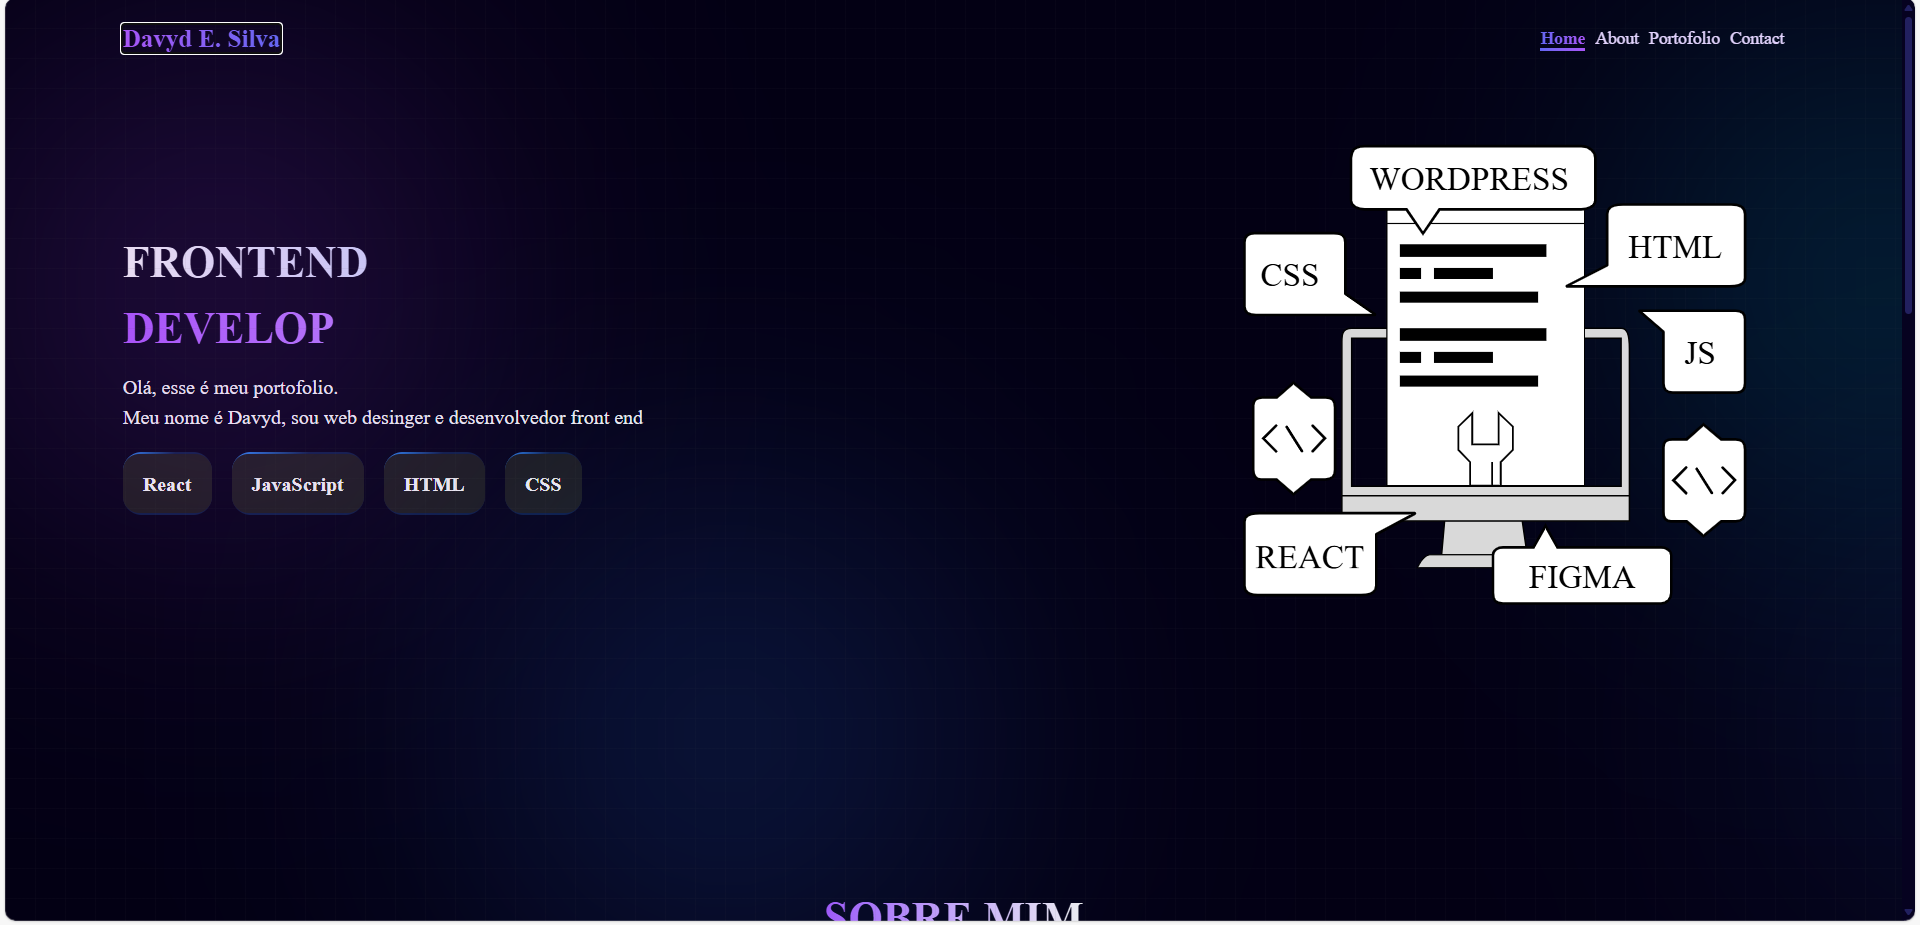
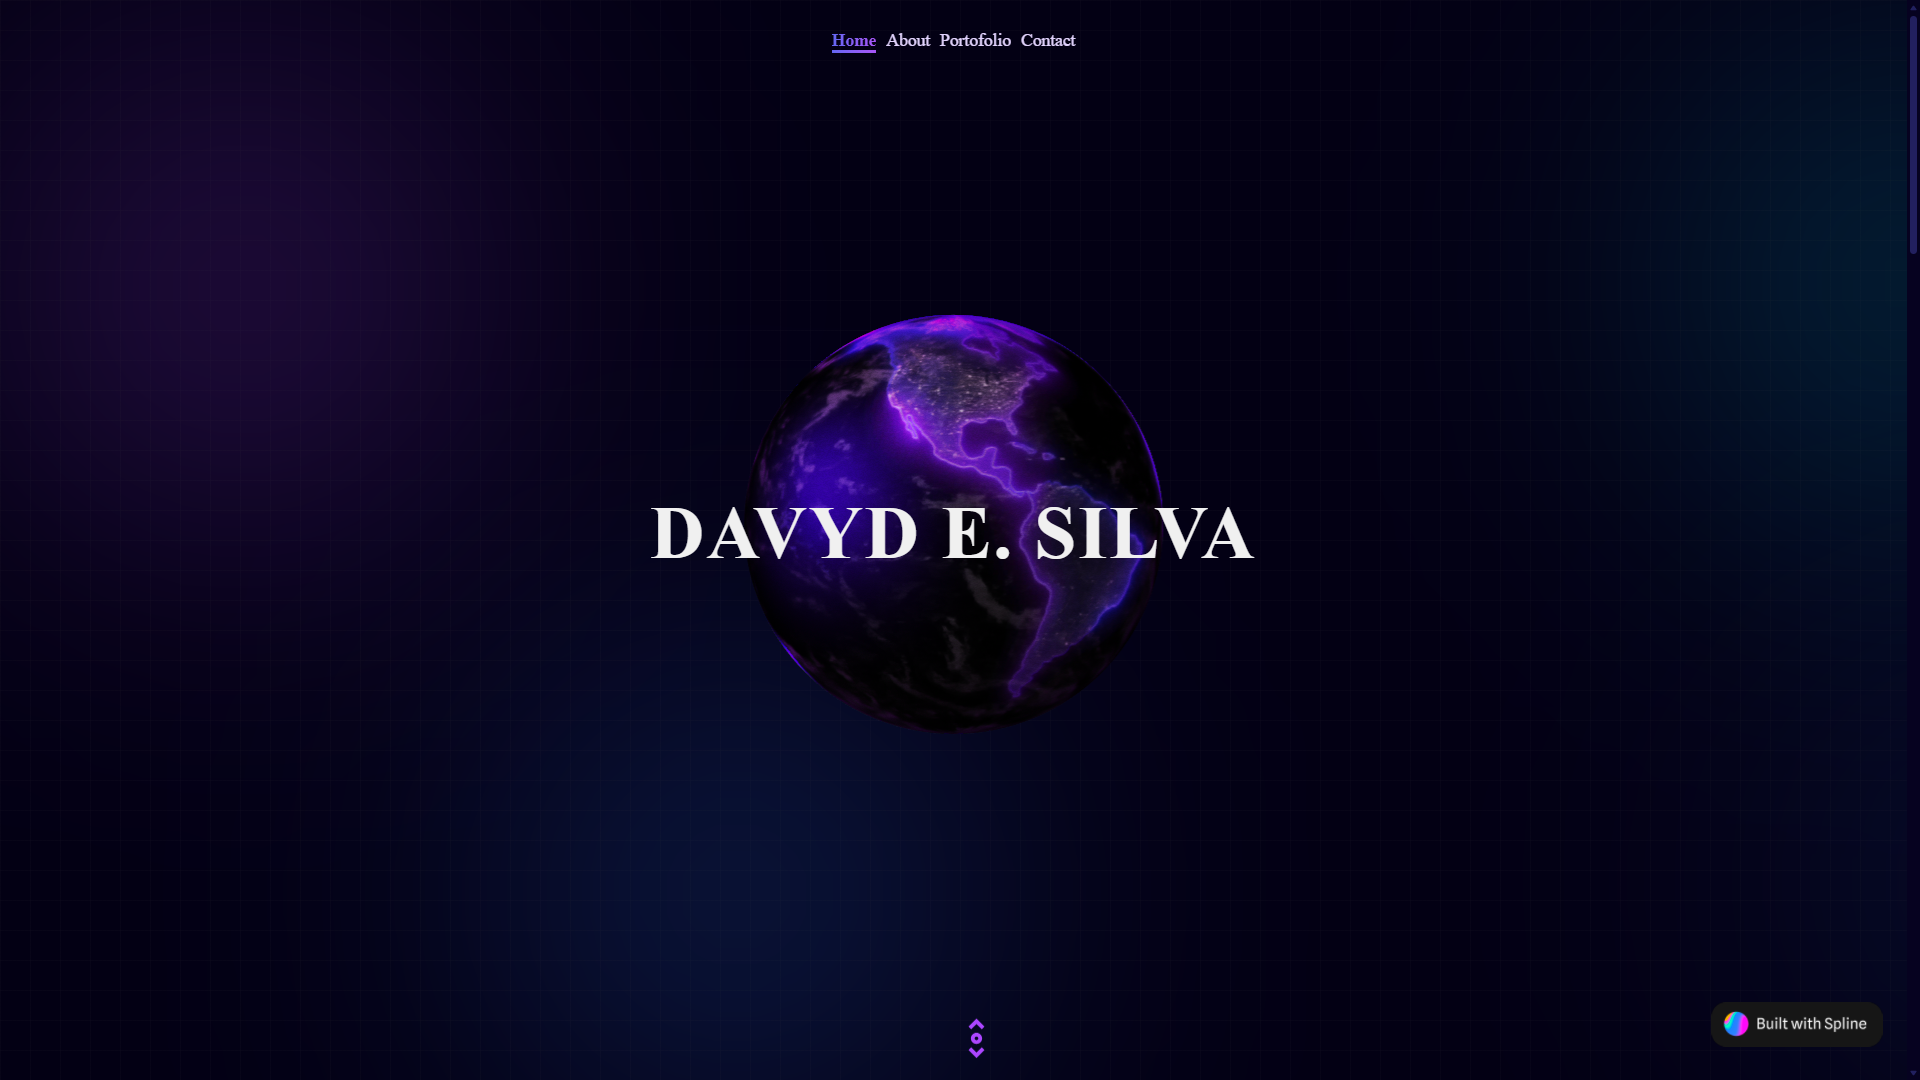
.
atualizações e manutenção do portifolio

diff --git a/src/componentes/Header.jsx b/src/componentes/Header.jsx
@@ -2,13 +2,13 @@ import React, { useState, useEffect } from "react";
 import { Menu, X } from "lucide-react";
 
 
-export default function Header () {
+export default function Header() {
     const [isOpen, setIsOpen] = useState(false);
     const [scrolled, setScrolled] = useState(false);
     const [activeSection, setActiveSection] = useState("Home");
 
     const navItems = [
-        { href: "#Home", label: "Home" }, 
+        { href: "#Home", label: "Home" },
         { href: "#About", label: "About" },
         { href: "#Portofolio", label: "Portofolio" },
         { href: "#Contact", label: "Contact" },
@@ -71,25 +71,14 @@ export default function Header () {
     return (
         <nav
             className={`fixed w-full top-0 z-50 transition-all duration-500 ${isOpen
-                    ? "bg-[#030014] opacity-100"
-                    : scrolled
-                        ? "bg-[#030014]/50 backdrop-blur-xl"
-                        : "bg-transparent"
+                ? "bg-[#030014] opacity-100"
+                : scrolled
+                    ? "bg-[#030014]/50 backdrop-blur-xl"
+                    : "bg-transparent"
                 }`}
         >
             <div className="mx-auto px-4 sm:px-6 lg:px-[10%] w-full flex justify-center">
-                <div className="flex items-center justify-between h-16 w-[87vw]">
-                    {/* Logo */}
-                    <div className="flex-shrink-0">
-                        <a
-                            href="#Home"
-                            onClick={(e) => scrollToSection(e, "#Home")}
-                            className="text-xl font-bold bg-gradient-to-r from-[#a855f7] to-[#6366f1] bg-clip-text text-transparent"
-                        >
-                            Davyd E. Silva
-                        </a>
-                    </div>
-
+                <div className="flex items-center justify-center h-16 w-[87vw]">
                     {/* Desktop Navigation */}
                     <div className="hidden md:block">
                         <div className="ml-8 flex items-center space-x-8 gap-2">
@@ -102,16 +91,16 @@ export default function Header () {
                                 >
                                     <span
                                         className={`relative z-10 transition-colors duration-300 ${activeSection === item.href.substring(1)
-                                                ? "bg-gradient-to-r from-[#6366f1] to-[#a855f7] bg-clip-text text-transparent font-semibold"
-                                                : "text-[#e2d3fd] group-hover:text-white"
+                                            ? "bg-gradient-to-r from-[#6366f1] to-[#a855f7] bg-clip-text text-transparent font-semibold"
+                                            : "text-[#e2d3fd] group-hover:text-white"
                                             }`}
                                     >
                                         {item.label}
                                     </span>
                                     <span
                                         className={`absolute bottom-0 left-0 w-full h-0.5 bg-gradient-to-r from-[#6366f1] to-[#a855f7] transform origin-left transition-transform duration-300 ${activeSection === item.href.substring(1)
-                                                ? "scale-x-100"
-                                                : "scale-x-0 group-hover:scale-x-100"
+                                            ? "scale-x-100"
+                                            : "scale-x-0 group-hover:scale-x-100"
                                             }`}
                                     />
                                 </a>
@@ -139,8 +128,8 @@ export default function Header () {
             {/* Mobile Menu Overlay */}
             <div
                 className={`md:hidden h-2/5 fixed inset-0 bg-[#030014] transition-all duration-300 ease-in-out ${isOpen
-                        ? "opacity-100 translate-y-0"
-                        : "opacity-0 translate-y-[-100%] pointer-events-none"
+                    ? "opacity-100 translate-y-0"
+                    : "opacity-0 translate-y-[-100%] pointer-events-none"
                     }`}
                 style={{ top: "64px" }}
             >
@@ -152,8 +141,8 @@ export default function Header () {
                                 href={item.href}
                                 onClick={(e) => scrollToSection(e, item.href)}
                                 className={`block px-4 py-3 text-lg font-medium transition-all duration-300 ease ${activeSection === item.href.substring(1)
-                                        ? "bg-gradient-to-r from-[#6366f1] to-[#a855f7] bg-clip-text text-transparent font-semibold"
-                                        : "text-[#e2d3fd] hover:text-white"
+                                    ? "bg-gradient-to-r from-[#6366f1] to-[#a855f7] bg-clip-text text-transparent font-semibold"
+                                    : "text-[#e2d3fd] hover:text-white"
                                     }`}
                                 style={{
                                     transitionDelay: `${index * 100}ms`,

diff --git a/src/sections/Main-home.jsx b/src/sections/Main-home.jsx
@@ -1,39 +1,22 @@
-import main from '/svg/main.svg'
-import Button from '../componentes/Button.jsx'
+import Spline from '../componentes/SplineScene';
+import {CgScrollV} from "react-icons/cg"
 import { motion } from "motion/react"
 
 export default function Main() {
     return (
-        <main className="flex w-full min-h-screen justify-center items-center z-10" id='Home'>
-            <motion.div className="w-[87vw] h-auto flex flex-row max-[800px]:flex-col justify-between items-center"
-                initial={{ opacity: 0, y: 40 }}
-                whileInView={{ opacity: 1, y: 0 }}
-                transition={{ duration: 0.6 }}
-                viewport={{ once: true, amount: 0.3 }}>
-                    
-            <div className="flex-1 gap-2">
-                <h1 className="flex flex-col">
-                    <span className="text-[35px] max-xl:text-xl font-bold bg-gradient-to-r from-[#f0f0f0] to-[#6366f1] bg-clip-text text-transparent">FRONTEND</span>
-                    <span className="text-[35px] max-xl:text-xl font-bold bg-gradient-to-r from-[#a855f7] to-[#f0f0f0] bg-clip-text text-transparent">DEVELOP</span>
-                </h1>
-                <p className='margin-top-2 text-[16px] max-md:text-[14px]'>
-                    Transformando código em experiências visuais. Sou um desenvolvedor Front-end apaixonado por construir interfaces que conectam pessoas e marcas.
-                </p>
+        <section className="relative w-full min-h-screen justify-center items-center overflow-hidden" id='Home'>
+            <Spline/> 
 
-                <div className=' flex items-center margin-top-3'>
-                    <div className='flex gap-4 flex-wrap text-[#f0f0f0]'>
-                        <Button text={"React"} />
-                        <Button text={"JavaScript"} />
-                        <Button text={"HTML"} />
-                        <Button text={"CSS"} />
-                    </div>
-                </div>
+            <div className='relative z-10 flex min-h-screen items-center justify-center'>
+                <h1 className='font-bold text-4xl sm:text-5xl lg:text-6xl text-[#F0F0F0] tracking-wide'>DAVYD E. SILVA</h1>
             </div>
-            <div className="flex-1 z-10 main-svg">
-                <img className='max-[800px]:max-w-[400px] max-[800px]:w-full max-[800px]:h-auto max-[800px]:mx-auto' src={main} alt="computador e icones flutuando" />
+
+            <div className='absolute bottom-0 left-[50%] animate-bounce'>
+                <h3 className='text-purple-500 text-4xl'>
+                    <CgScrollV/>
+                </h3>
             </div>
-        </motion.div>
-        </main >
+        </section >
 
     );
 }

diff --git a/src/sections/Portifolio.jsx b/src/sections/Portifolio.jsx
@@ -1,5 +1,5 @@
 import projeto1 from '/img/projeto-nubank.png'
-import projeto2 from '/img/cardapio.png'
+import projeto2 from '../../public/img/pagina-dk.png'
 import spiderpng from '/img/spider.png'
 import projetoPortifolio from '/img/portifolio.png'
 import landingPage from '/img/webPage.jpeg'
@@ -16,10 +16,10 @@ export default function Portifolio() {
             link: "https://web-site-nubank.vercel.app/"
         },
         {
-            title: "Cardápio Digital",
-            description: "Aplicação de cardápio digital desenvolvida com React, focada em praticidade e gerenciamento simplificado para delivery. O sistema utiliza Google Sheets como banco de dados, permitindo que o proprietário adicione novos produtos e altere preços em tempo real de forma intuitiva, sem necessidade de editar código.",
+            title: "Landing Page B2B",
+            description: "Uma landing page de alta conversão focada no mercado de atacado. Desenvolvida com React e Tailwind CSS, a interface utiliza um design moderno e minimalista para destacar os produtos, transmitir credibilidade logística e captar leads qualificados de lojistas diretamente para o WhatsApp.",
             image: projeto2,
-            link: "https://esfistreet.vercel.app/"
+            link: "https://lojista.dkconfeccoes.com.br"
         },
         {
             title: "Home Page Spider-Man",
@@ -68,7 +68,7 @@ export default function Portifolio() {
                 whileInView={{ opacity: 1, y: 0 }}
                 transition={{ duration: 0.6 }}
                 viewport={{ once: true, amount: 0.3 }}>
-                <h1 className="text-[35px] max-xl:text-xl font-bold bg-gradient-to-r from-[#a855f7] to-[#f0f0f0] bg-clip-text text-transparent mb-2">Portfolio</h1>
+                <h1 className="font-bold text-3xl sm:text-4xl lg:text-5xl text-[#F0F0F0] tracking-wide mb-2">Portfolio</h1>
                 <p className="text-[16px] max-[800px]:text-[14px] text-gray-300">
                     Explore meus projetos e criações desenvolvidos com tecnologias modernas.
                 </p>

diff --git a/src/sections/SobreMim.jsx b/src/sections/SobreMim.jsx
@@ -21,7 +21,7 @@ export default function Sobre() {
 
     return (
         <div className="flex w-full min-h-screen justify-center items-center z-10 flex-col mt-6" id='About'>
-            <motion.h1 className="text-[35px] max-xl:text-xl font-bold bg-gradient-to-r from-[#a855f7] to-[#f0f0f0] bg-clip-text text-transparent"
+            <motion.h1 className="font-bold text-3xl sm:text-4xl lg:text-5xl text-[#F0F0F0] tracking-wide"
                 initial={{ opacity: 0, y: -20 }}
                 whileInView={{ opacity: 1, y: 0 }}
                 transition={{ duration: 0.6 }}
@@ -35,8 +35,8 @@ export default function Sobre() {
                     transition={{ duration: 0.6 }}
                     viewport={{ once: true, amount: 0.3 }}>
                     <h1 className="flex flex-col">
-                        <span className="text-[35px] max-xl:text-xl font-bold bg-gradient-to-r from-[#f0f0f0] to-[#6366f1] bg-clip-text text-transparent">Davyd E.</span>
-                        <span className="text-[35px] max-xl:text-xl font-bold bg-gradient-to-r from-[#a855f7] to-[#f0f0f0] bg-clip-text text-transparent">Silva</span>
+                        <span className="text-[35px] max-xl:text-xl font-bold bg-gradient-to-r from-[#f0f0f0] to-[#6366f1] bg-clip-text text-transparent">Front-end</span>
+                        <span className="text-[35px] max-xl:text-xl font-bold bg-gradient-to-r from-[#a855f7] to-[#f0f0f0] bg-clip-text text-transparent">Web desing</span>
                     </h1>
                     <p className='margin-top-2 text-[16px] max-md:text-[14px] max-w-[75%] max-[800px]:max-w-[100%]'>
                         Desenvolvedor Front-End com formação em Análise e Desenvolvimento de Sistemas e foco em Web Design e UX Design. Apaixonado por criar experiências digitais modernas, busco unir design, animações e performance para desenvolver interfaces intuitivas, criativas e visualmente impactantes.

diff --git a/index.html b/index.html
@@ -1,13 +1,17 @@
 <!doctype html>
 <html lang="pt-br">
-  <head>
-    <meta charset="UTF-8" />
-    <link rel="icon" type="image/svg+xml" href="/vite.svg" />
-    <meta name="viewport" content="width=device-width, initial-scale=1.0" />
-    <title>portifolio</title>
-  </head>
-  <body>
-    <div id="root"></div>
-    <script type="module" src="/src/main.jsx"></script>
-  </body>
+
+<head>
+  <meta charset="UTF-8" />
+  <link rel="icon" type="image/svg+xml" href="/vite.svg" />
+  <meta name="viewport" content="width=device-width, initial-scale=1.0" />
+  <title>portifolio</title>
+  
+</head>
+
+<body>
+  <div id="root"></div>
+  <script type="module" src="/src/main.jsx"></script>
+</body>
+
 </html>

diff --git a/src/App.css b/src/App.css
@@ -1,5 +1,6 @@
 @import "tailwindcss";
 
+
 * {
 	margin: 0;
 	padding: 0;
@@ -188,36 +189,11 @@ p {
 
 
 
-/*animação main*/
-
-.js, .cod2, .react{
-	animation: svg 5s ease 1s infinite alternate;
-}
-.wordpress, .figma, .html{
-	animation: svg 5s ease 3s infinite alternate;
-}
-.css, .cod{
-	animation: svg 5s ease 2s infinite alternate;
-}
-
-@keyframes svg {
-	0%{
-		transform: translate3d(0, 0, 0);
-	}
-	100%{
-		transform: translate3d(0, 40px, 0);
-	}
-}
-
-
 
 @media (max-width: 800px){
 	.responsive{
 		flex-direction: column;
 		gap: 24px;
-	}
-	.main-svg{
-		margin-top: 40px;
 	}
 }
 @media (min-width: 1920px){

diff --git a/src/sections/Contato.jsx b/src/sections/Contato.jsx
@@ -35,7 +35,7 @@ const Contato = () => {
             </motion.div>
 
             <div className="w-[87vw] h-auto flex flex-row  items-center mt-6 max-[800px]:flex-col max-[800px]:gap-4 ">
-                <motion.div className=" flex flex-1 justify-center items-center"
+                <motion.div className=" flex flex-1 justify-center items-center z-10"
                     initial={{ opacity: 0, x: -40 }}
                     whileInView={{ opacity: 1, x: 0 }}
                     transition={{ duration: 0.7 }}

diff --git a/src/componentes/Form.jsx b/src/componentes/Form.jsx
@@ -45,7 +45,7 @@ const Form = () => {
     return (
         <StyledWrapper>
             <div className="form-container z-10">
-                <form className="form " onSubmit={handleSubmit}>
+                <form className="form z-10" onSubmit={handleSubmit}>
                     <div className="form-group">
                         <label htmlFor="email">Email</label>
                         <input type="text" id="email" name="email" value={formData.email} onChange={handleChange} required />

diff --git a/src/componentes/SplineScene.jsx b/src/componentes/SplineScene.jsx
@@ -1,0 +1,10 @@
+import Spline from '@splinetool/react-spline';
+
+export default function SplineScene() {
+  return (
+    <div className='absolute inset-0 -z-0'>
+       <Spline scene="https://prod.spline.design/LsQKOjAG5mbzVZZ0/scene.splinecode" /> 
+    </div>
+    
+  );
+}
